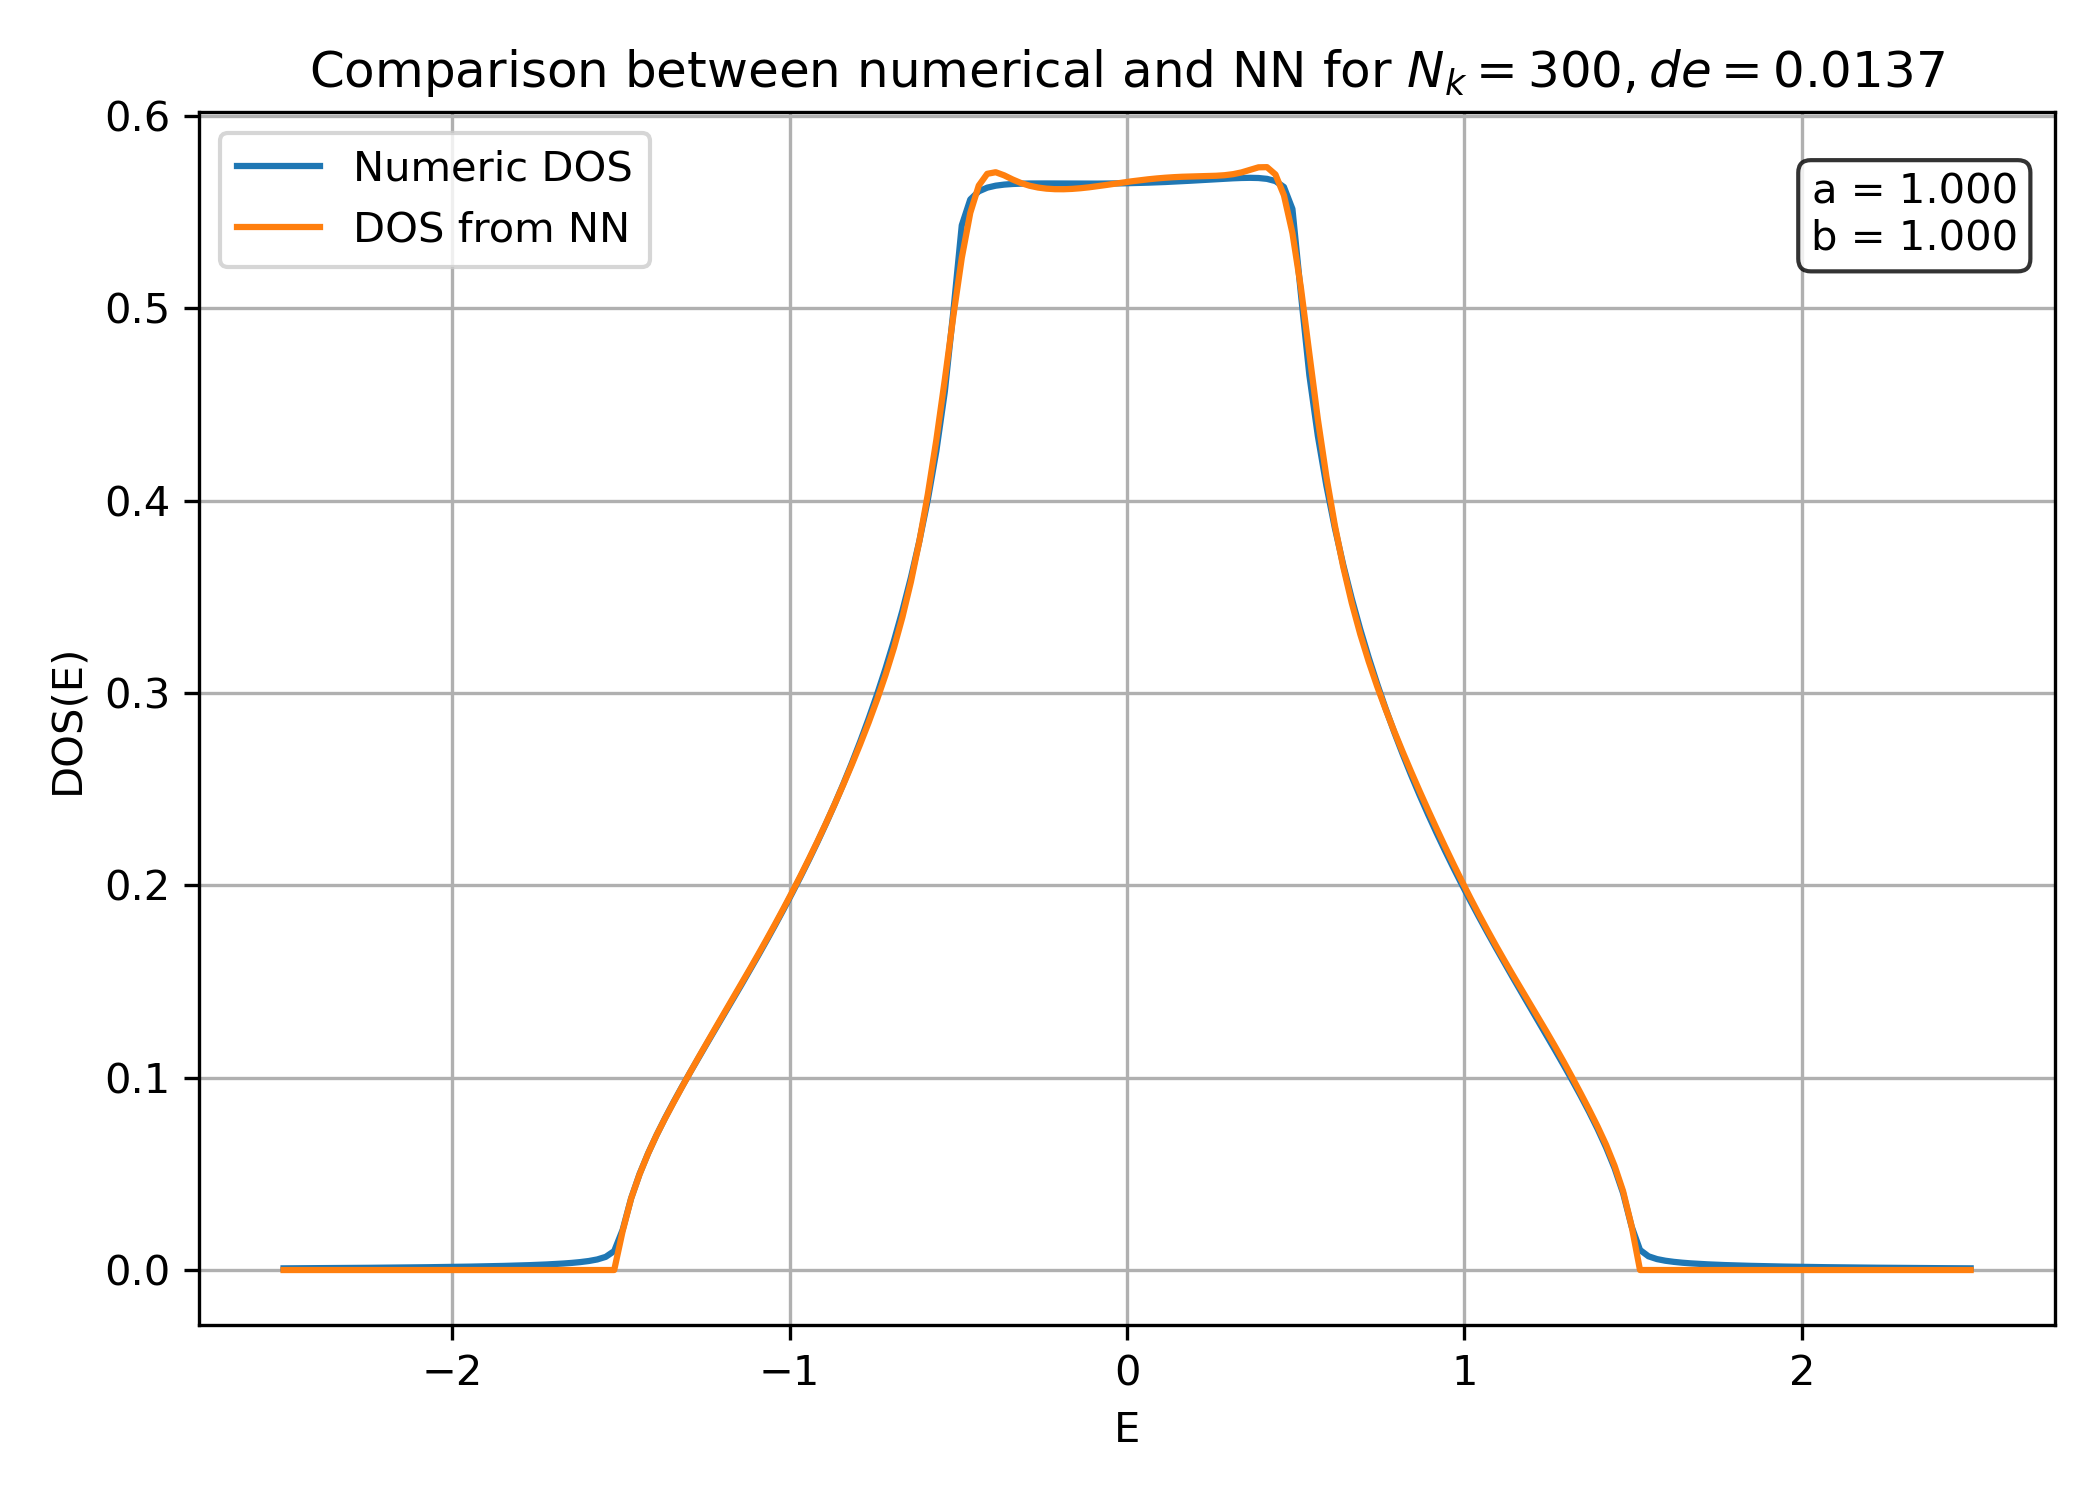
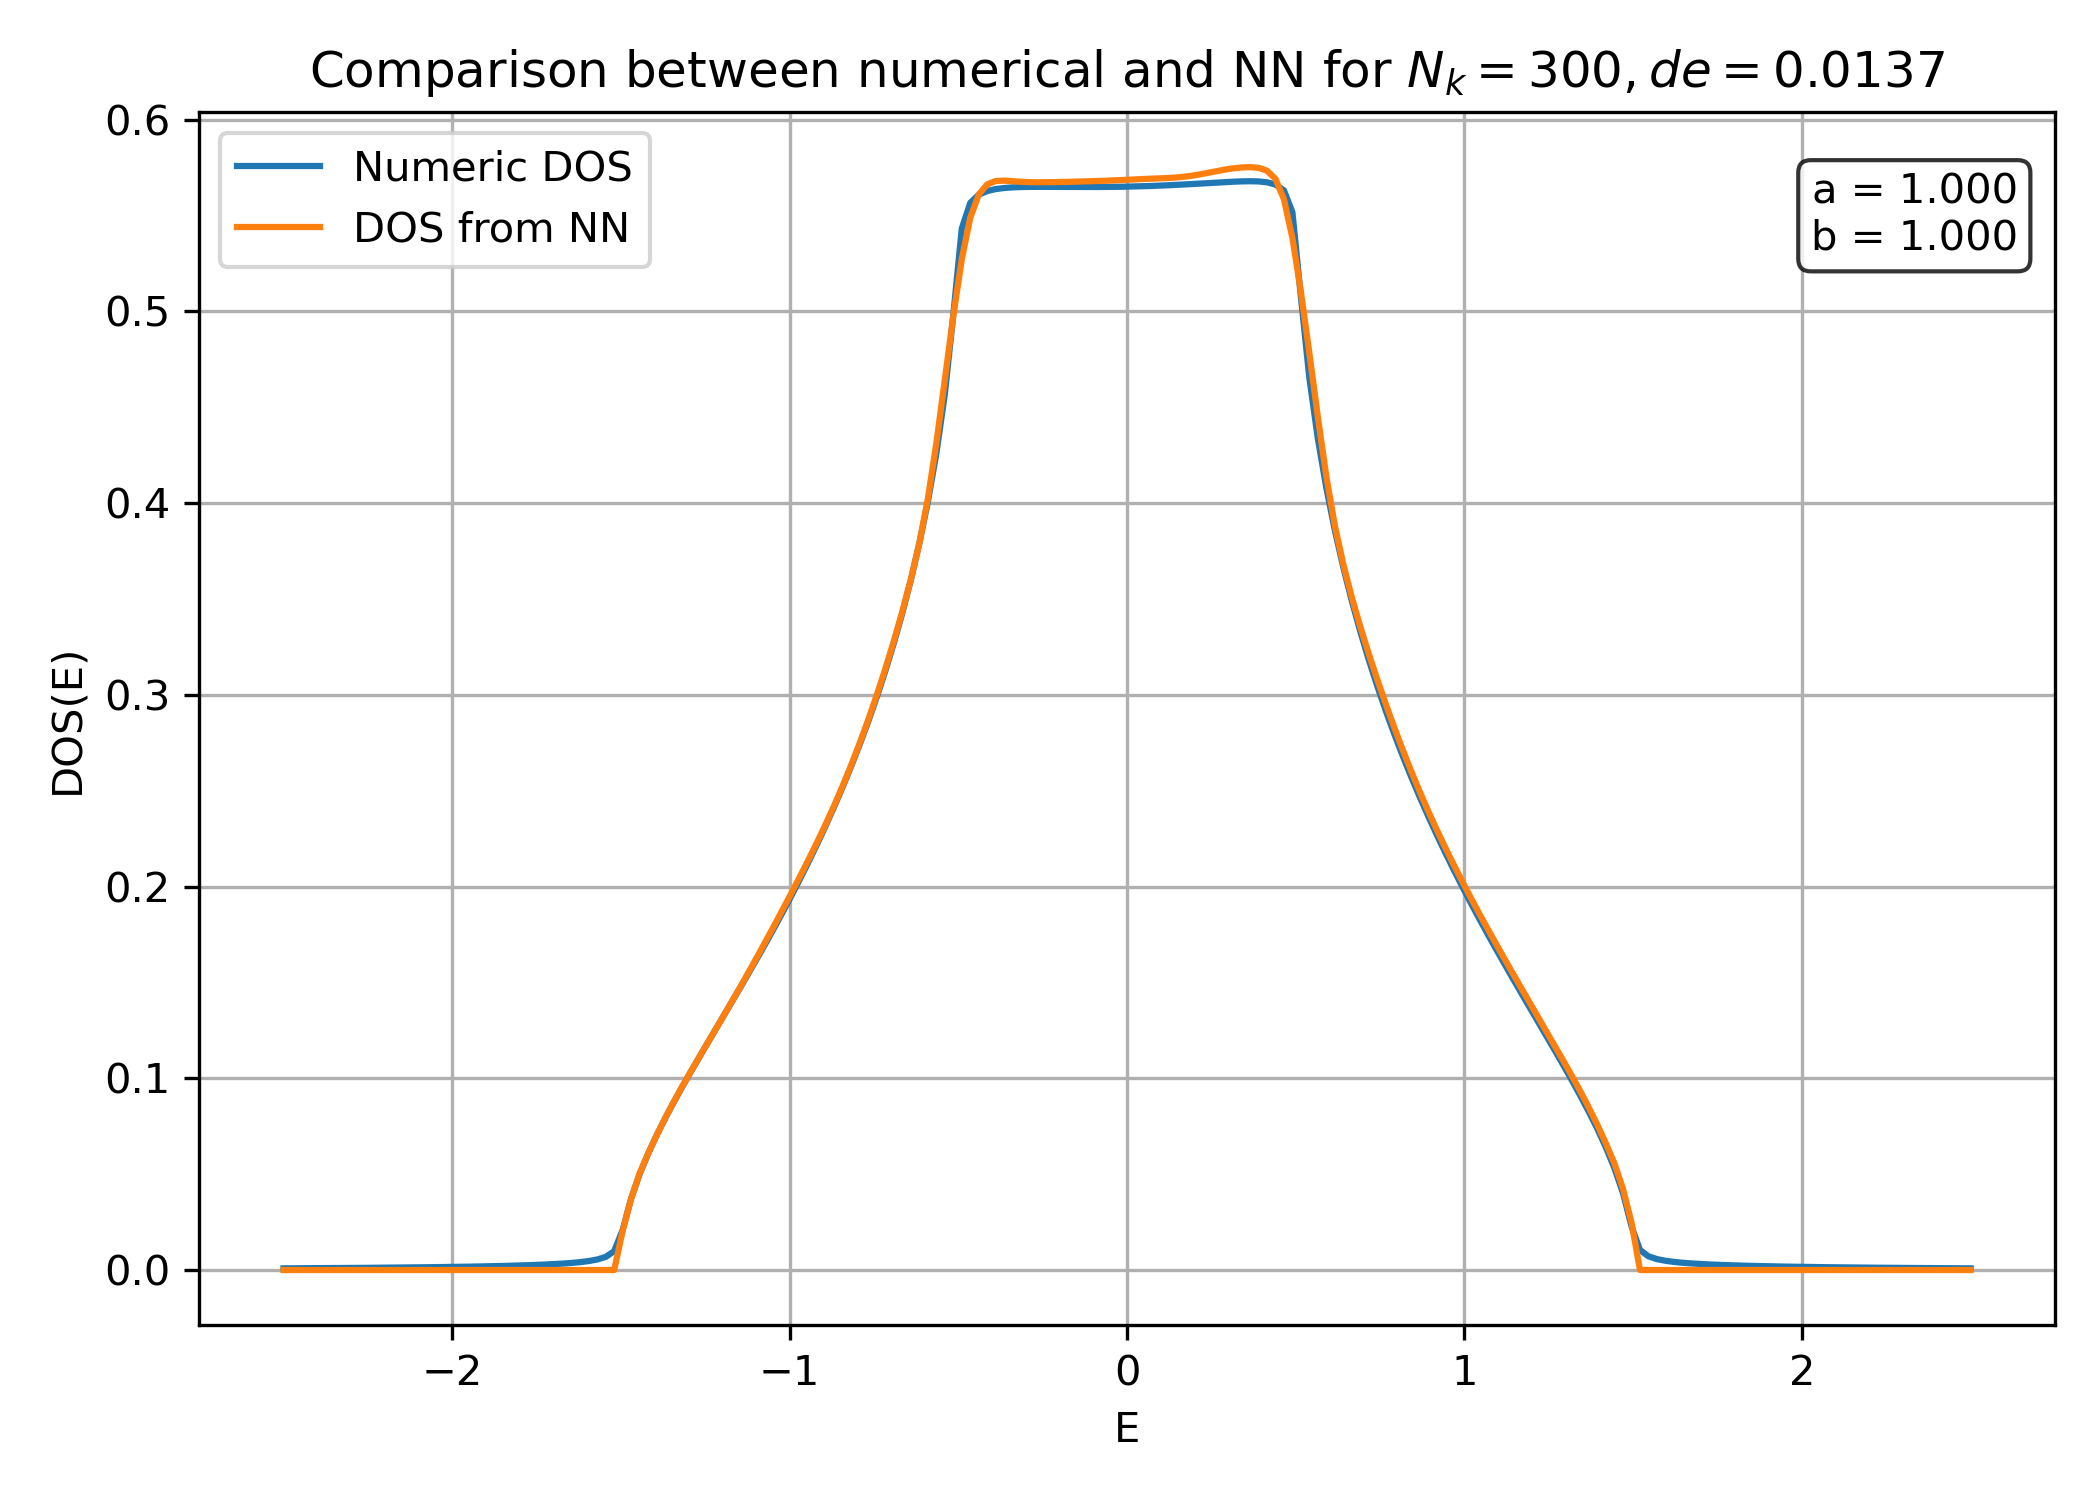
Tanh adam regularization

diff --git a/Tanh6/DOS_nn_train_Tanh6.py b/Tanh6/DOS_nn_train_Tanh6.py
@@ -106,10 +106,9 @@ print("Device:", device)
 
 model = DOSNet().to(device)
 
-optimizer = torch.optim.AdamW(
+optimizer = torch.optim.Adam(
     model.parameters(),
-    lr=5e-4,
-    weight_decay=1e-4
+    lr=1e-3
 )
 loss_fn = nn.MSELoss()
 